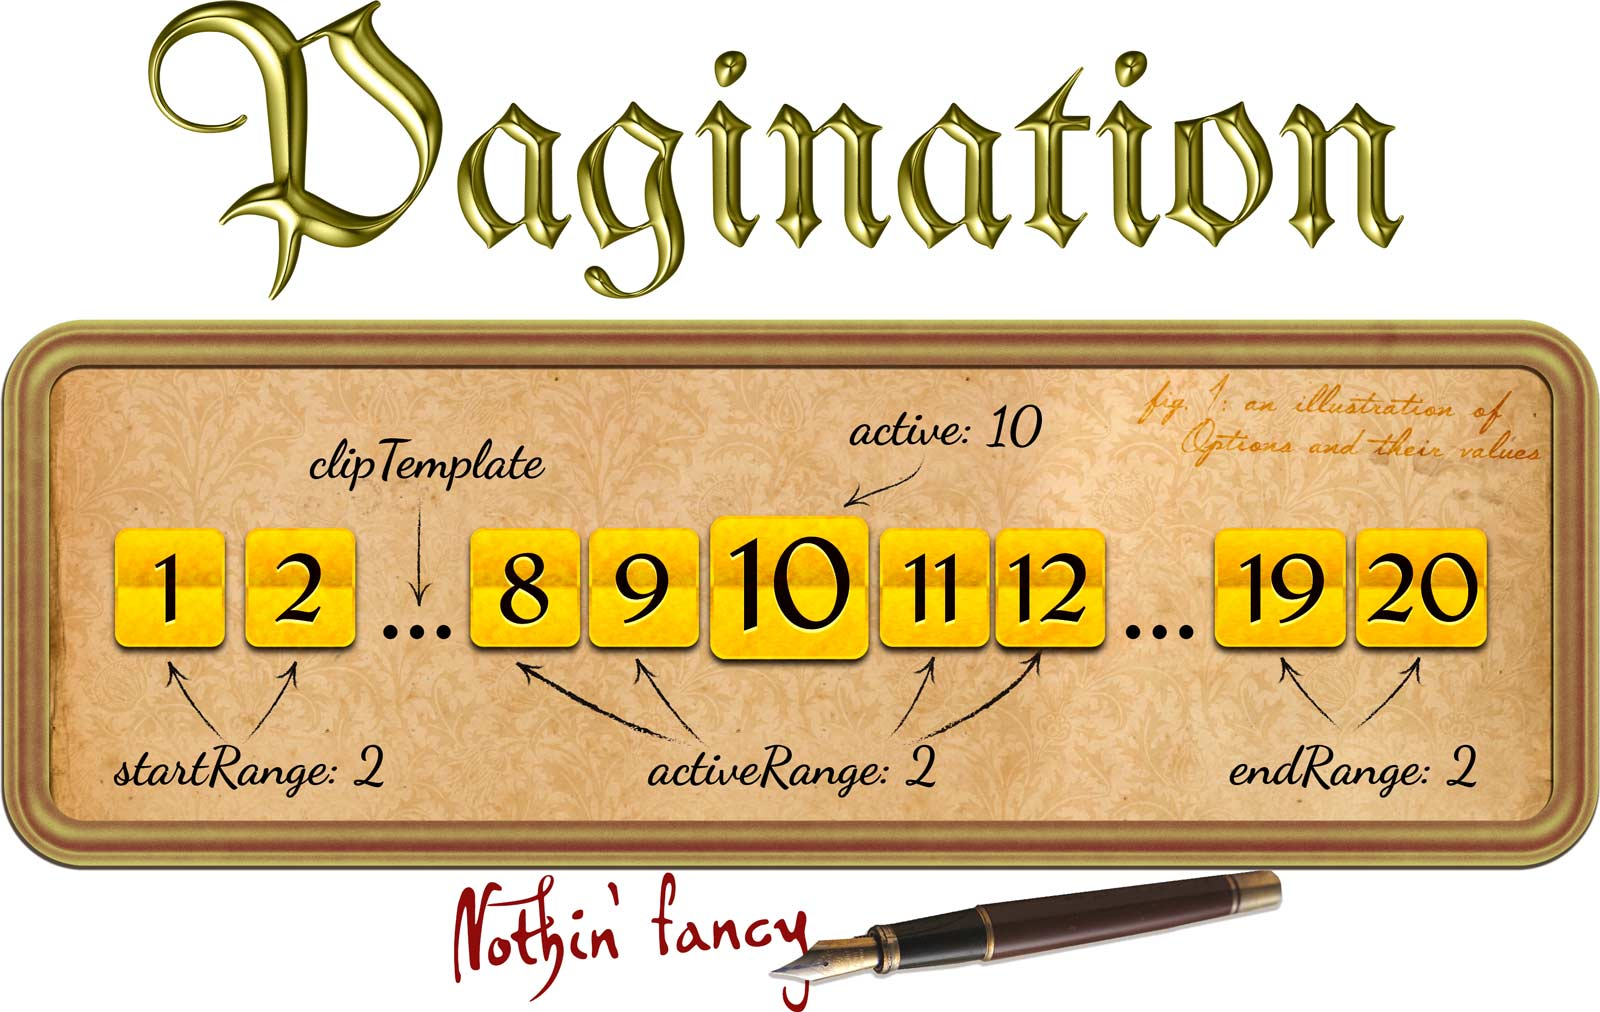
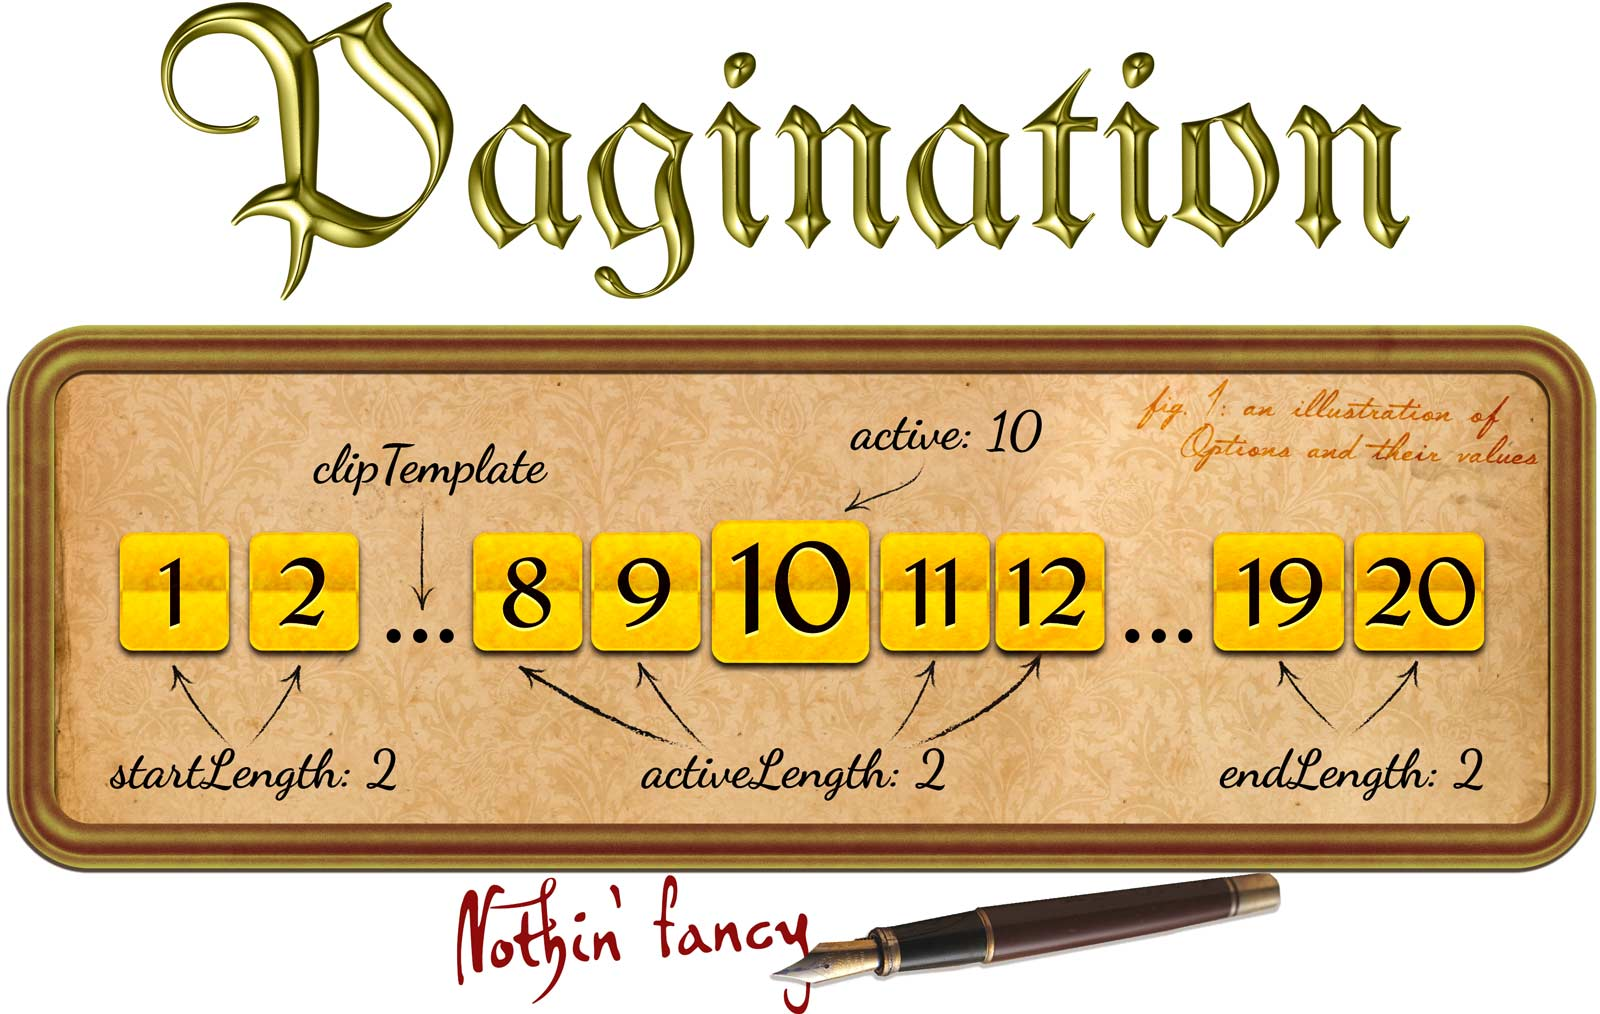
Rename "-Range" options to "-Length" instead
This stays consistent with the use of "length" as the property name used
to set the pagination's entire size.

Changed region(s): [[0.0, 0.0, 1.0, 0.9802], [0.4688, 0.9802, 0.5, 1.0]]

diff --git a/src/es6/pagination.js b/src/es6/pagination.js
@@ -8,21 +8,21 @@ class Pagination{
 		this.el             = el;
 		
 		/** Parse options and their default values */
-		let startRange      = options.startRange;
-		let endRange        = options.endRange;
-		let activeRange     = options.activeRange;
+		let startLength     = options.startLength;
+		let endLength       = options.endLength;
+		let activeLength    = options.activeLength;
 		let length          = options.length;
 		let active          = options.active;
 		
 		this.onChange       = options.onChange;
 		this.linkTemplate   = options.linkTemplate;
-		this.clipTemplate   = options.clipTemplate || "&hellip;";
-		this.activeClass    = options.activeClass  || "active";
-		this.startRange     = undef === startRange  ? 1  : (+startRange  || 0);
-		this.endRange       = undef === endRange    ? 1  : (+endRange    || 0);
-		this.activeRange    = undef === activeRange ? 2  : (+activeRange || 0);
-		this.length         = undef === length      ? 20 : (+length      || 0);
-		this.active         = undef === active      ? 10 : (+active      || 0);
+		this.clipTemplate   = options.clipTemplate  || "&hellip;";
+		this.activeClass    = options.activeClass   || "active";
+		this.startLength    = undef === startLength  ? 1  : (+startLength  || 0);
+		this.endLength      = undef === endLength    ? 1  : (+endLength    || 0);
+		this.activeLength   = undef === activeLength ? 2  : (+activeLength || 0);
+		this.length         = undef === length       ? 20 : (+length       || 0);
+		this.active         = undef === active       ? 10 : (+active       || 0);
 	}
 	
 	
@@ -162,23 +162,23 @@ class Pagination{
 			el.removeChild(el.firstChild);
 		
 		
-		const left  = this._active - this.activeRange;
-		const right = this._active + this.activeRange;
-		const end   = this._length - this.endRange;
+		const left  = this._active - this.activeLength;
+		const right = this._active + this.activeLength;
+		const end   = this._length - this.endLength;
 		const children = [];
 		
 		/** Reattach leading range */
-		for(let i = 0; i < this.startRange; ++i)
+		for(let i = 0; i < this.startLength; ++i)
 			children.push(el.appendChild(this.links[i]));
 		
 		
 		/** Should we display a truncation indicator? */
-		if(left > this.startRange)
+		if(left > this.startLength)
 			el.appendChild(this.leftClip);
 		
 		
 		/** Display the active range */
-		for(let i = Math.max(this.startRange, left); i <= Math.min(this._length - 1, right); ++i)
+		for(let i = Math.max(this.startLength, left); i <= Math.min(this._length - 1, right); ++i)
 			children.push(el.appendChild(this.links[i]));
 		
 		

diff --git a/src/pagination.js b/src/pagination.js
@@ -20,9 +20,9 @@
 		var rightClip;
 		
 		/** Parse options and their default values */
-		var optStartRange   = options.startRange;
-		var optEndRange     = options.endRange;
-		var optActiveRange  = options.activeRange;
+		var optStartLength  = options.startLength;
+		var optEndLength    = options.endLength;
+		var optActiveLength = options.activeLength;
 		var optLength       = options.length;
 		var optActive       = options.active;
 		
@@ -138,11 +138,11 @@
 		THIS.onChange       = options.onChange;
 		THIS.linkTemplate   = options.linkTemplate;
 		THIS.clipTemplate   = options.clipTemplate || "&hellip;";
-		this.startRange     = undef === optStartRange  ? 1  : (+optStartRange  || 0);
-		this.endRange       = undef === optEndRange    ? 1  : (+optEndRange    || 0);
-		this.activeRange    = undef === optActiveRange ? 2  : (+optActiveRange || 0);
-		this.length         = undef === optLength      ? 20 : (+optLength      || 0);
-		this.active         = undef === optActive      ? 10 : (+optActive      || 0);
+		this.startLength    = undef === optStartLength  ? 1  : (+optStartLength  || 0);
+		this.endLength      = undef === optEndLength    ? 1  : (+optEndLength    || 0);
+		this.activeLength   = undef === optActiveLength ? 2  : (+optActiveLength || 0);
+		this.length         = undef === optLength       ? 20 : (+optLength       || 0);
+		this.active         = undef === optActive       ? 10 : (+optActive       || 0);
 		
 		
 		
@@ -282,10 +282,10 @@
 				el.removeChild(el.firstChild);
 			
 			
-			var start    = THIS.startRange;
-			var left     = _active - THIS.activeRange;
-			var right    = _active + THIS.activeRange;
-			var end      = _length - THIS.endRange;
+			var start    = THIS.startLength;
+			var left     = _active - THIS.activeLength;
+			var right    = _active + THIS.activeLength;
+			var end      = _length - THIS.endLength;
 			var children = [];
 			var i, l;
 			
